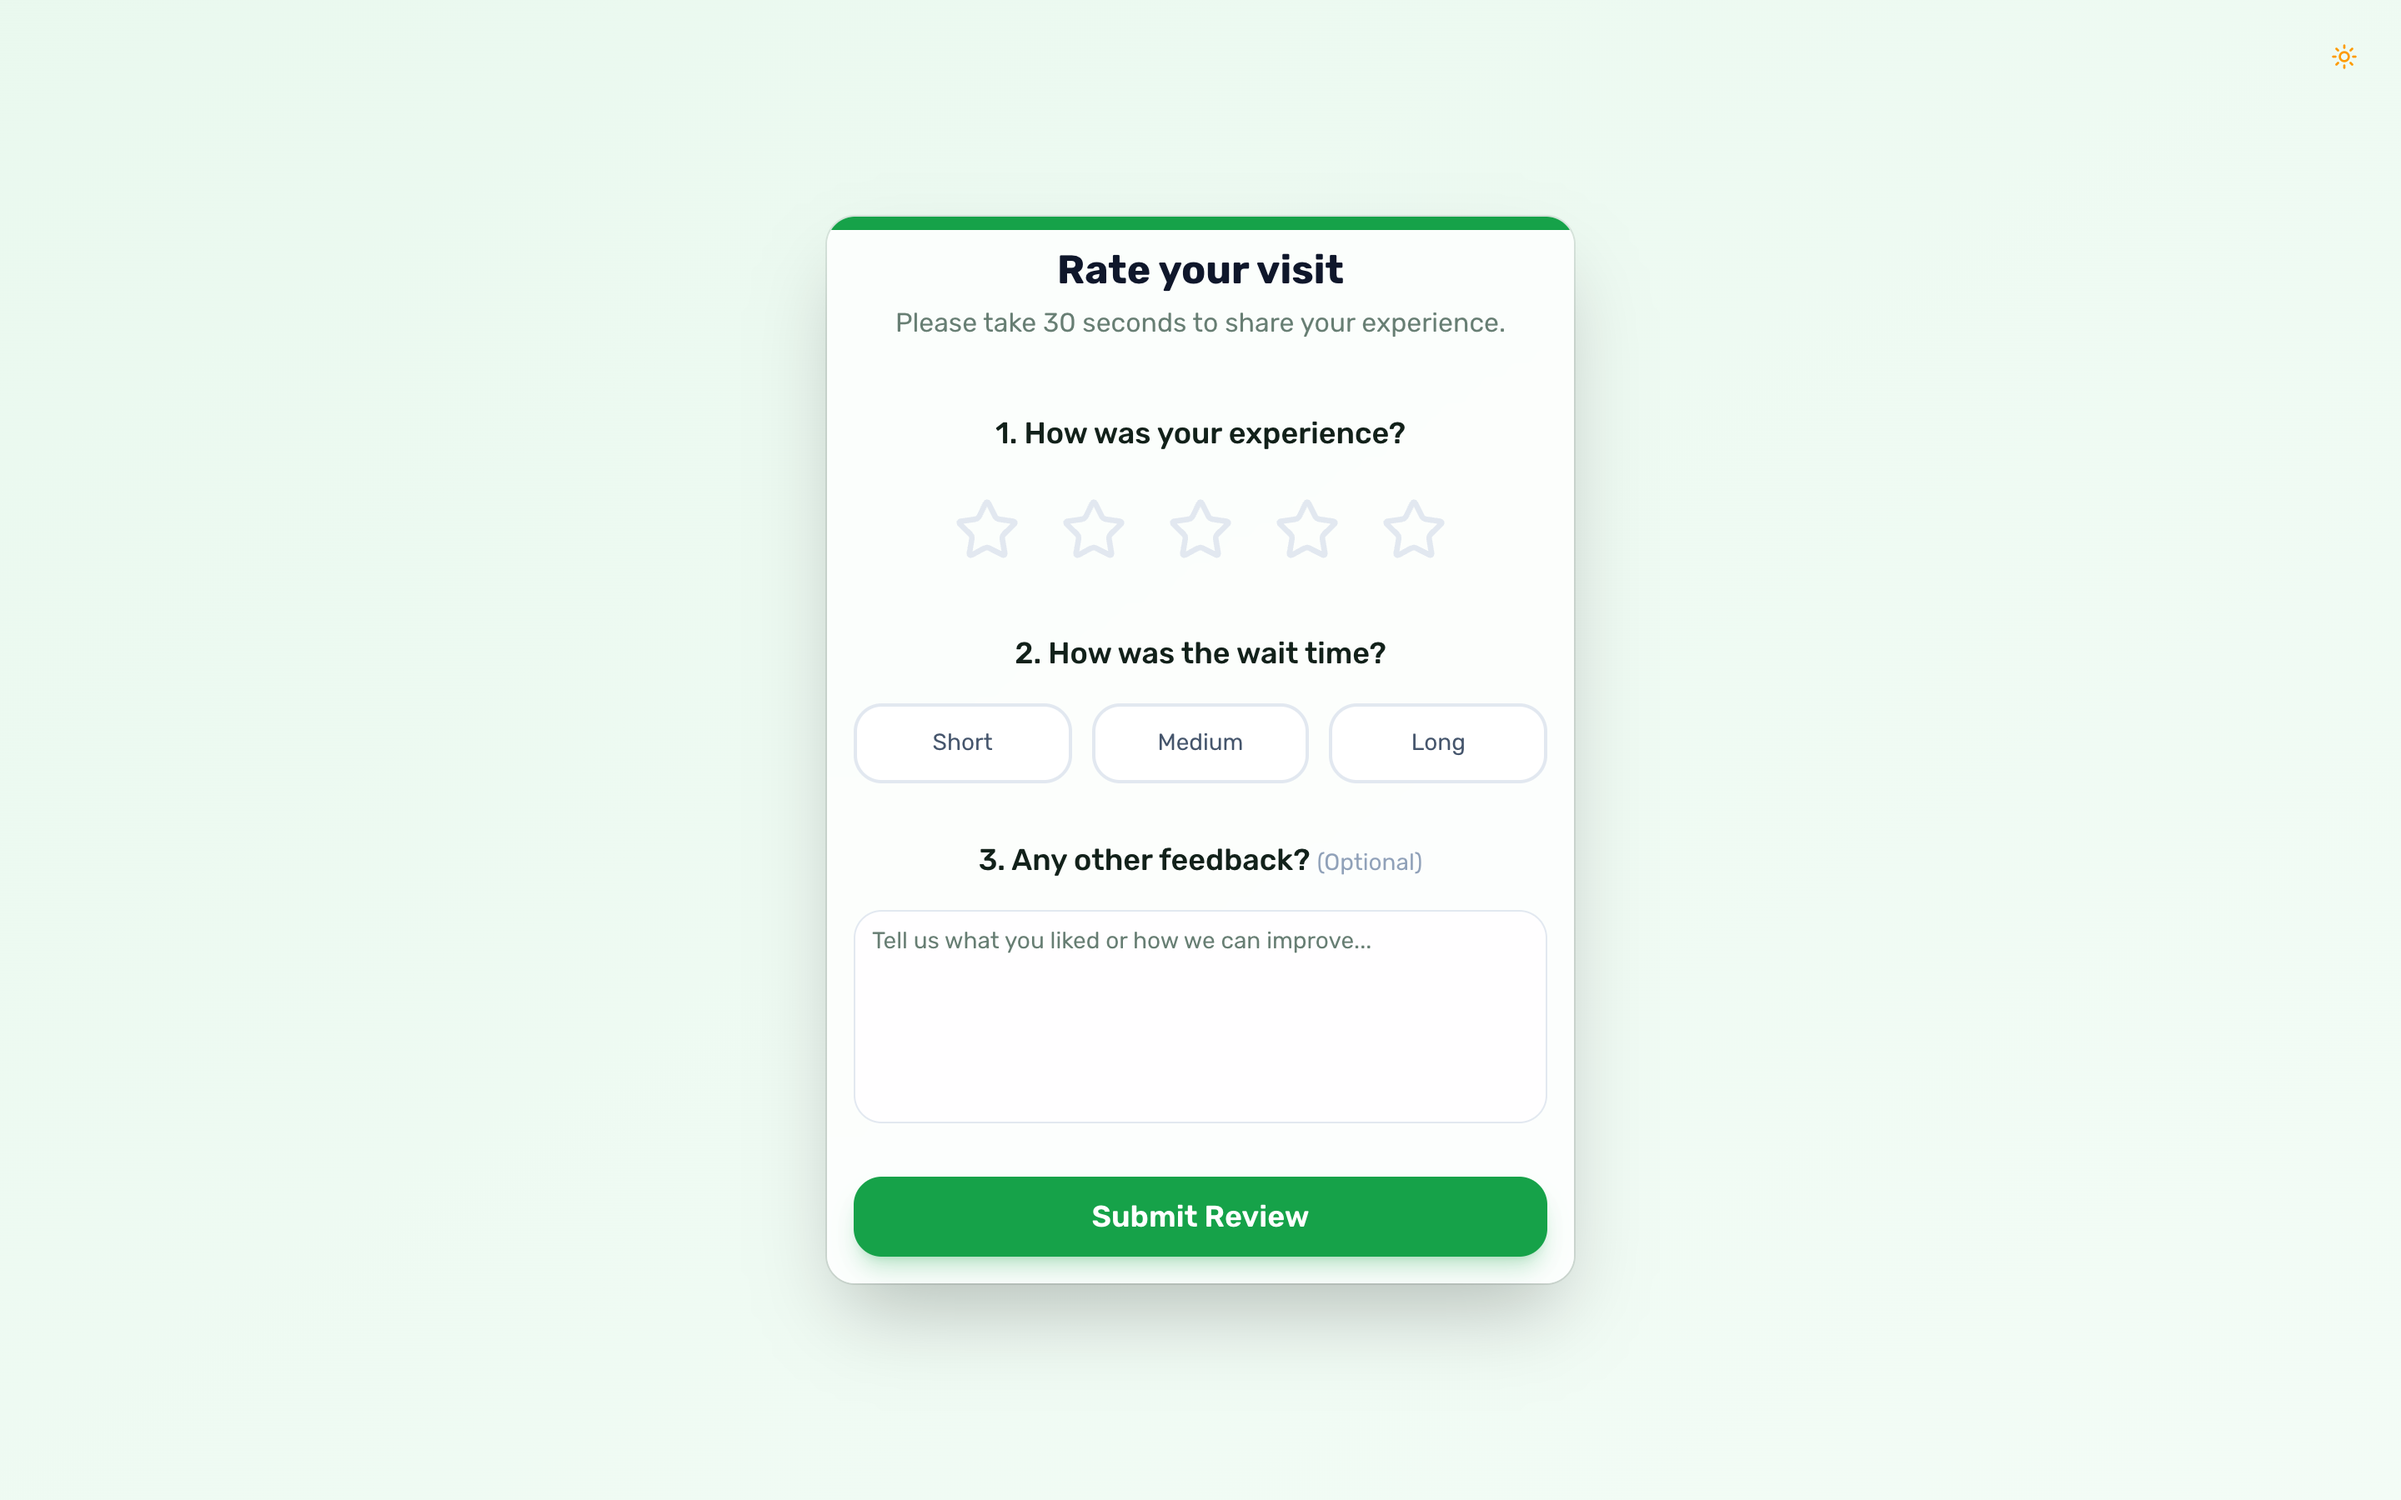
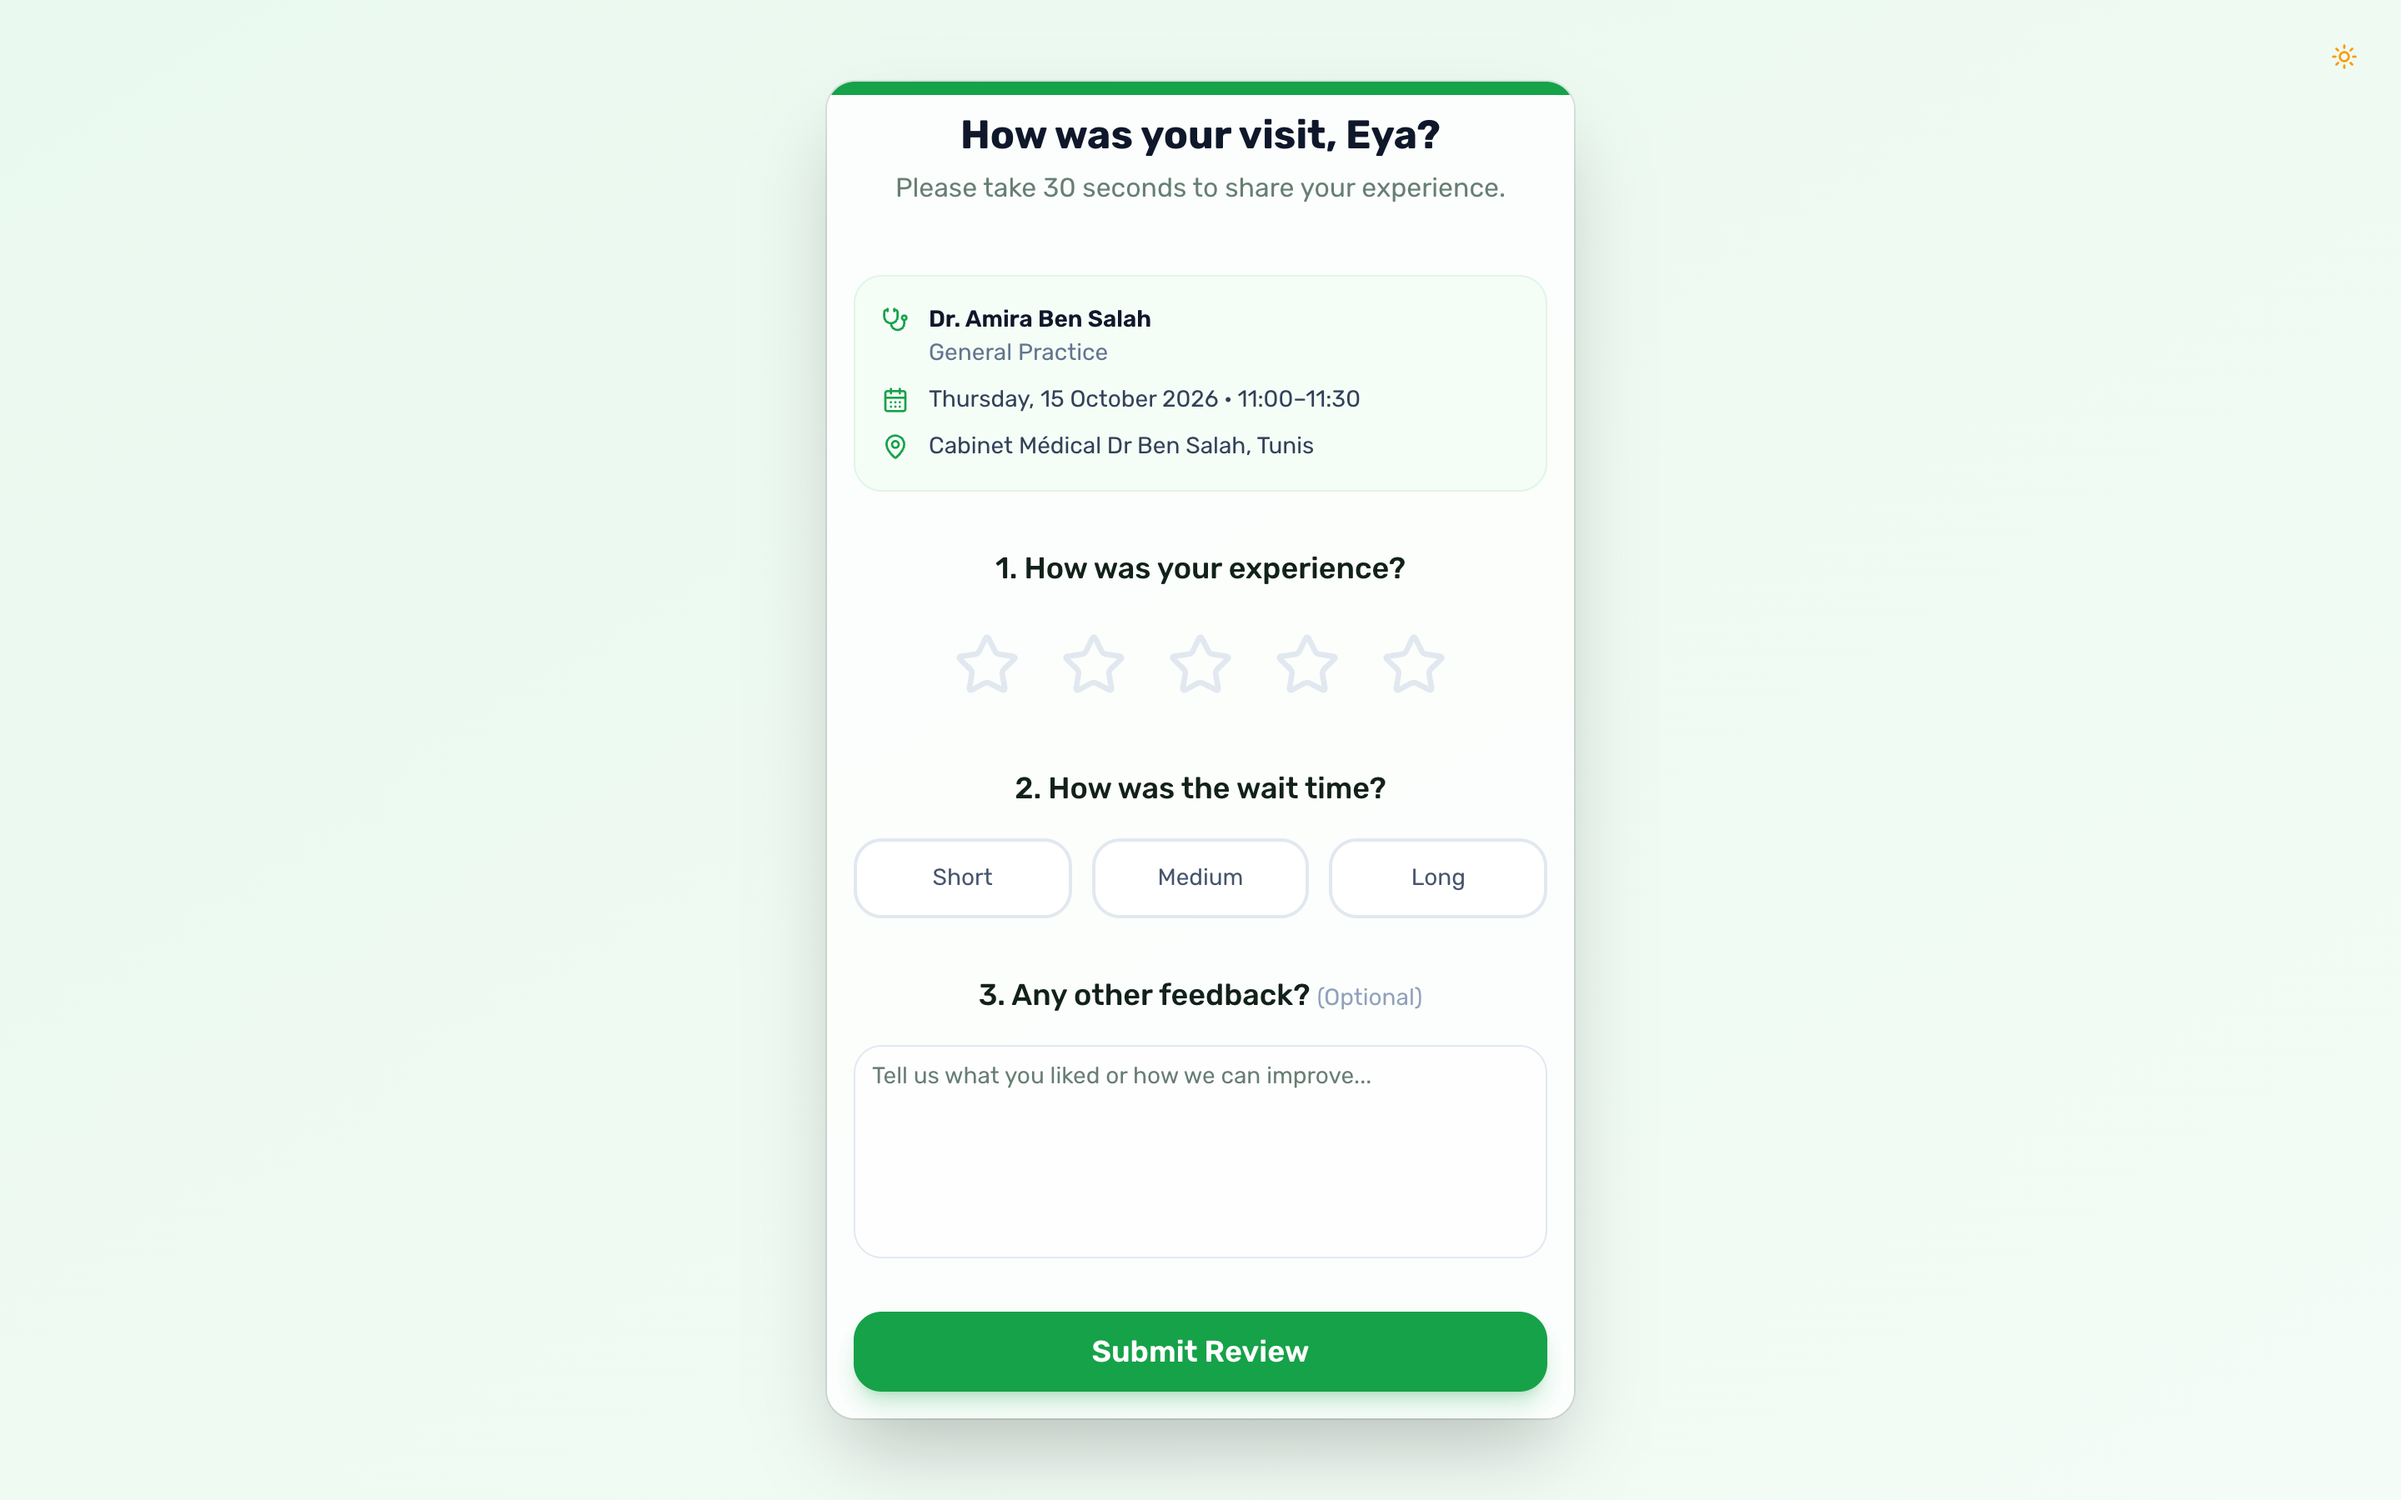
Show the visit on the patient review page screenshot

diff --git a/chap_03.tex b/chap_03.tex
@@ -256,7 +256,7 @@ After sign-up, the doctor fills in the application on the Profile page: name, id
     \caption{Patient review page}
     \label{fig:scr_review}
 \end{figure}
-Two hours after a visit, the patient receives a WhatsApp link to this page. It asks for a star rating, the waiting time and an optional comment, and it needs no account. Each visit can be rated once, and the link stops working after 30 days.
+Two hours after a visit, the patient receives a WhatsApp link to this page. It greets the patient by first name and shows which visit is being rated: the doctor, the speciality, the date and time, and the practice. It then asks for a star rating, the waiting time and an optional comment, and it needs no account. The reason for the visit is left out, since the link can be forwarded. Each visit can be rated once, and the link stops working after 30 days.
 
 \subsection{Doctor Dashboard}
 
